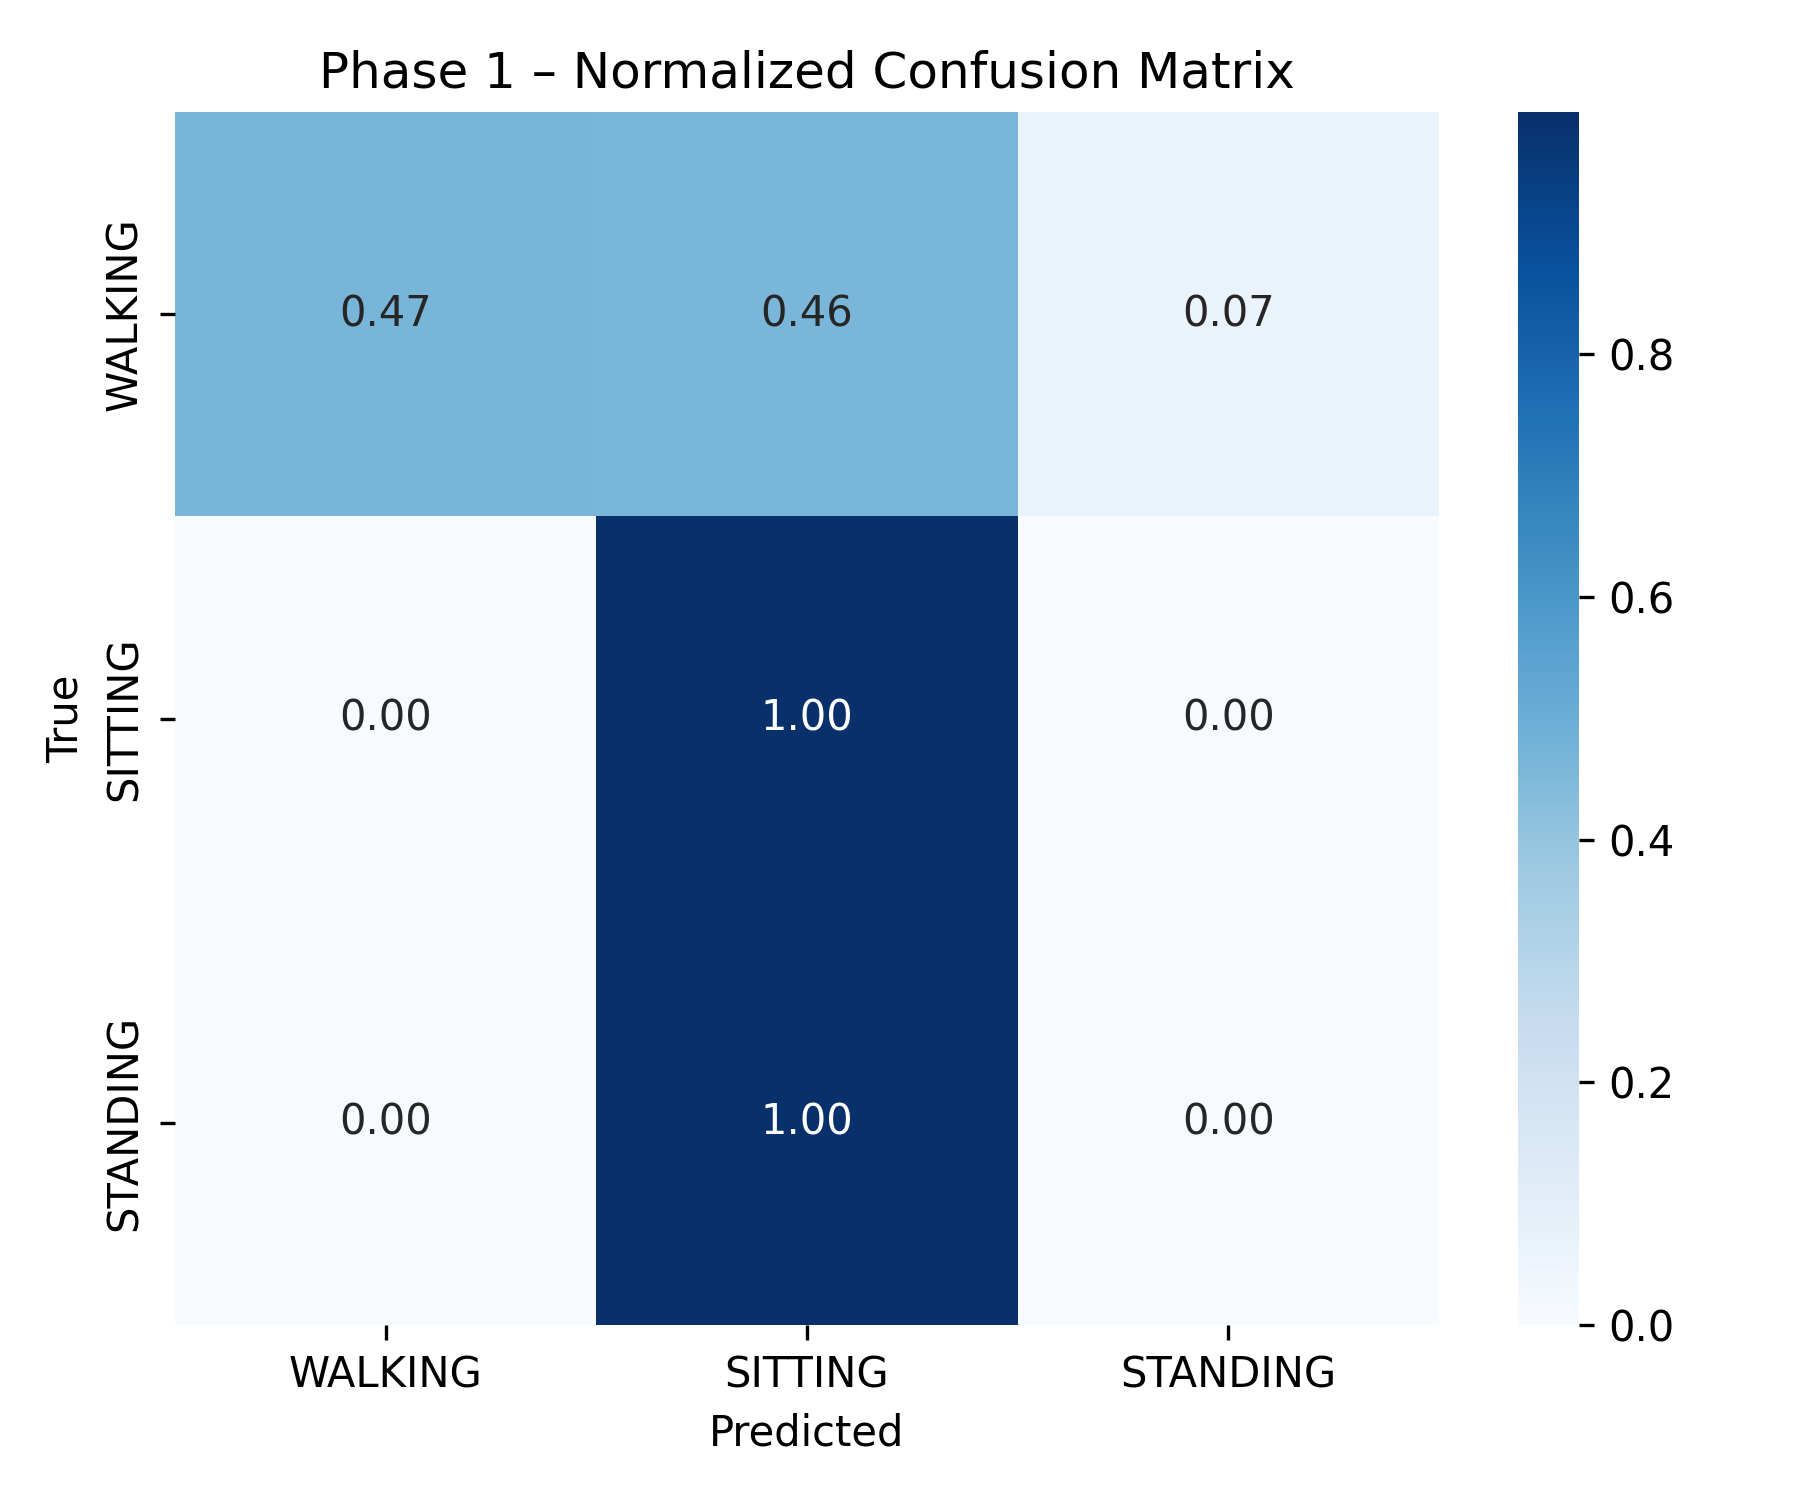
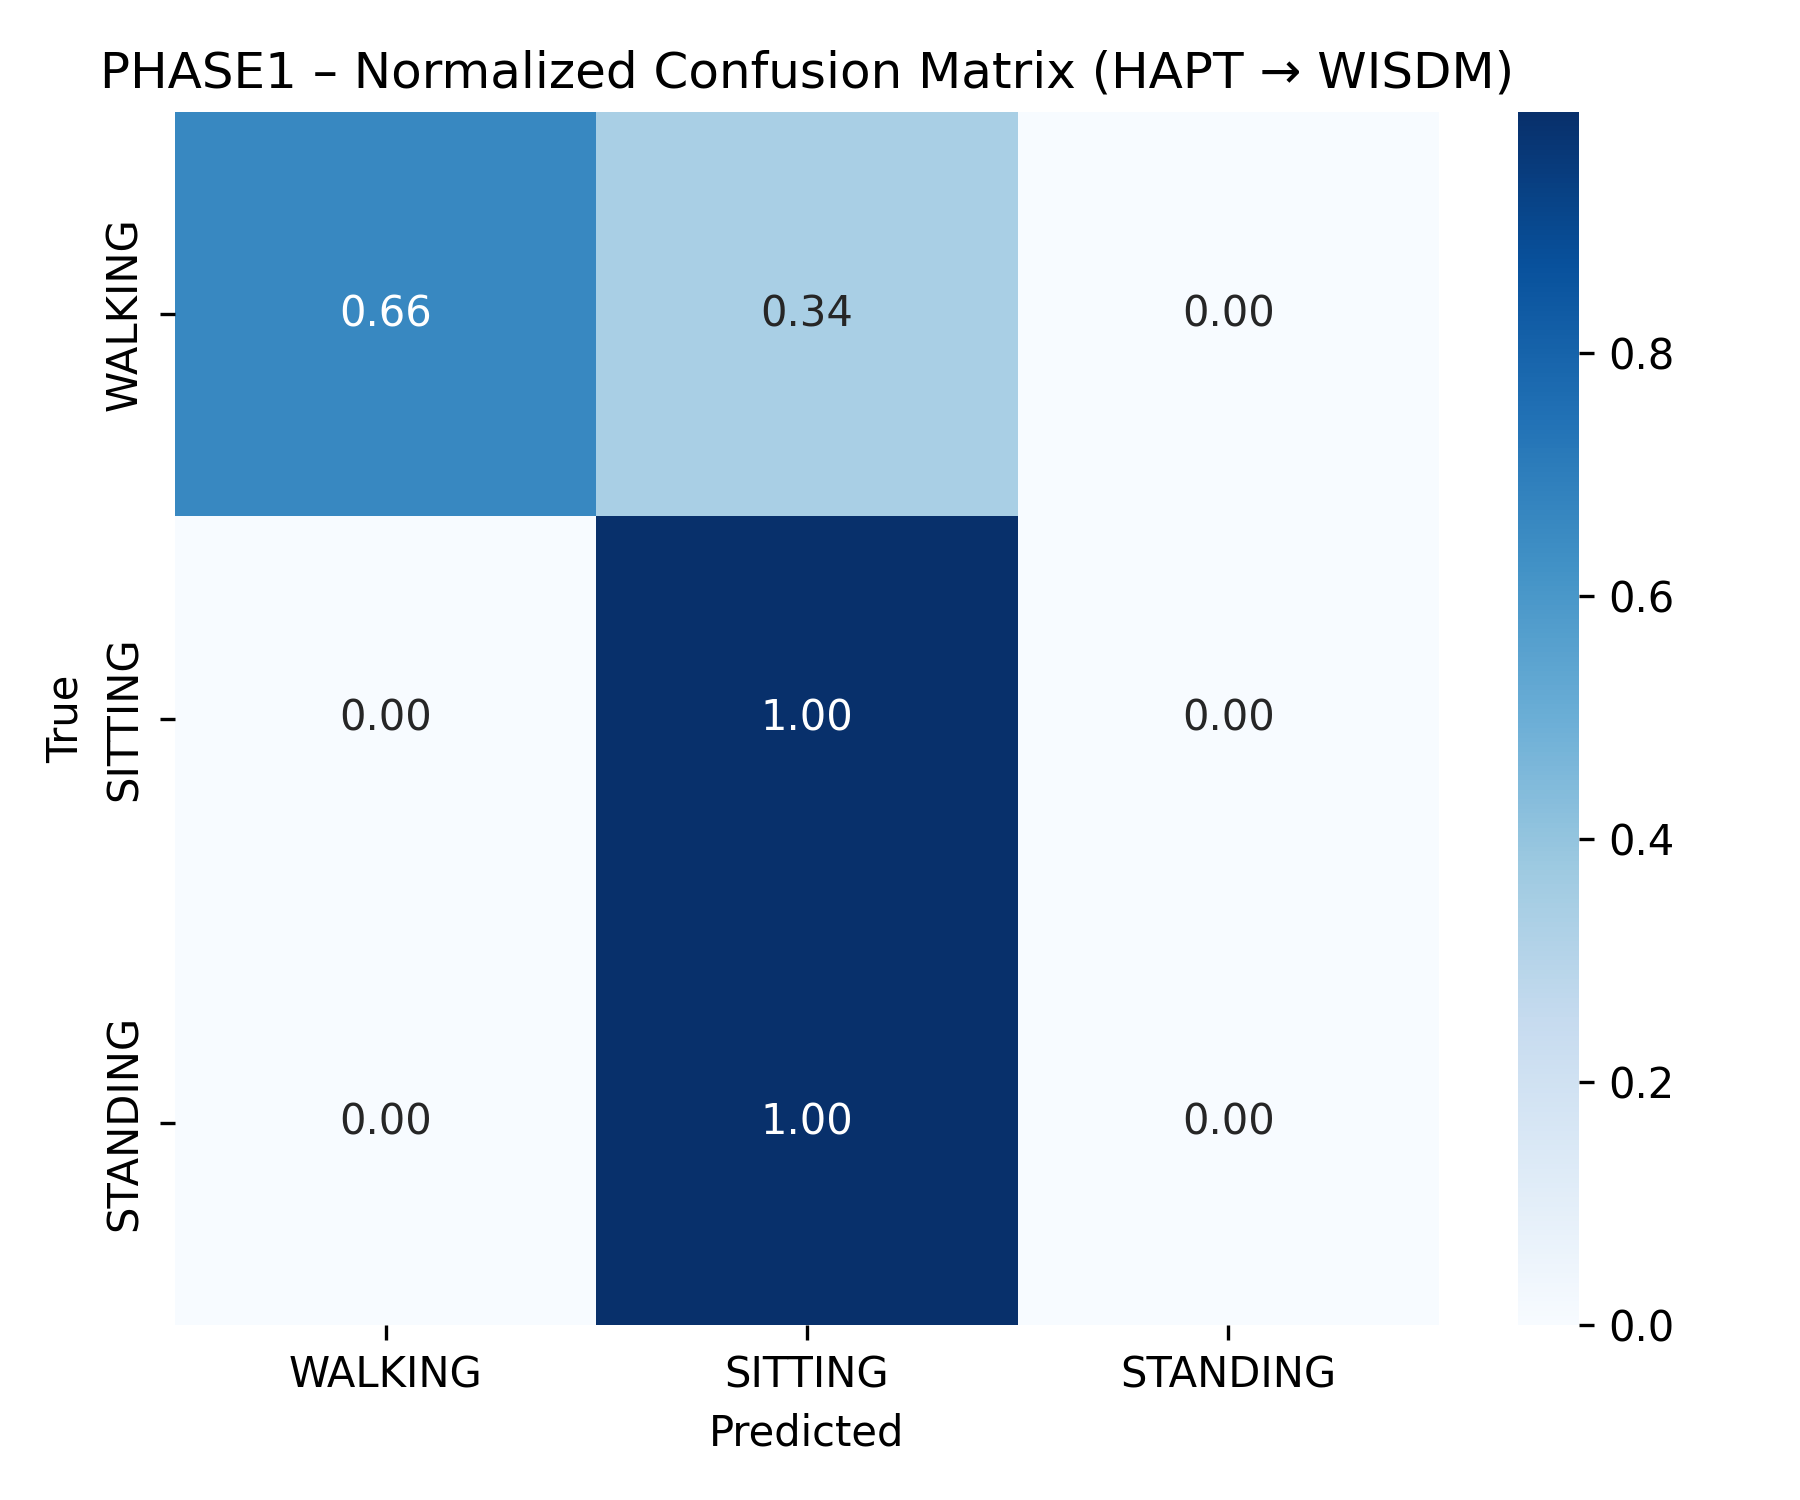
Generated result (images) for pahse 1 and 2

Changed region(s): [[0.0622, 0.0307, 0.84, 0.368], [0.9022, 0.2147, 0.9333, 0.2453], [0.6844, 0.184, 0.7156, 0.2147]]

diff --git a/Synthetic Image Detection/cross_dataset_hapt_to_wisdm.py b/Synthetic Image Detection/cross_dataset_hapt_to_wisdm.py
@@ -7,6 +7,7 @@ from sklearn.metrics import accuracy_score, confusion_matrix, classification_rep
 import seaborn as sns
 import matplotlib.pyplot as plt
 from sklearn.metrics import recall_score
+import os
 
 
 
@@ -17,13 +18,23 @@ from sklearn.svm import SVC
 from sklearn.linear_model import LogisticRegression, Perceptron
 from xgboost import XGBClassifier
 
+# =========================
+# RUN CONFIG
+# =========================
+PHASE_TAG = "phase1"  # change to "phase2" when running baseline 80-feature version
+
+RESULTS_DIR = os.path.join("results", PHASE_TAG)
+os.makedirs(RESULTS_DIR, exist_ok=True)
+
+LABELS = ["WALKING", "SITTING", "STANDING"]
+
 # Load HAPT (source)
-X_train = np.loadtxt(r"C:\Users\tomin\source\repos\Synthetic Image Detection\Synthetic Image Detection\hapt_3class_output_phase2\X_hapt.txt")
-y_train = np.loadtxt(r"C:\Users\tomin\source\repos\Synthetic Image Detection\Synthetic Image Detection\hapt_3class_output_phase2\y_hapt.txt").astype(int)
+X_train = np.loadtxt(r"C:\Users\tomin\source\repos\Synthetic Image Detection\Synthetic Image Detection\hapt_3class_output\X_hapt.txt")
+y_train = np.loadtxt(r"C:\Users\tomin\source\repos\Synthetic Image Detection\Synthetic Image Detection\hapt_3class_output\y_hapt.txt").astype(int)
 
 # Load WISDM (target)
-X_test = np.loadtxt(r"C:\Users\tomin\source\repos\Synthetic Image Detection\Filtered_datasets_and_KS_results\3class_wisdm_phase2\X_filtered.txt")
-y_test = np.loadtxt(r"C:\Users\tomin\source\repos\Synthetic Image Detection\Filtered_datasets_and_KS_results\3class_wisdm_phase2\y_filtered.txt").astype(int)
+X_test = np.loadtxt(r"C:\Users\tomin\source\repos\Synthetic Image Detection\Filtered_datasets_and_KS_results\3class_wisdm\X_filtered.txt")
+y_test = np.loadtxt(r"C:\Users\tomin\source\repos\Synthetic Image Detection\Filtered_datasets_and_KS_results\3class_wisdm\y_filtered.txt").astype(int)
 
 # --- FIX WISDM LABEL SEMANTICS (CRITICAL) ---
 # WISDM mapping: 1=SITTING, 2=STANDING, 3=WALKING
@@ -139,40 +150,54 @@ print(classification_report(
     target_names=["WALKING", "SITTING", "STANDING"]
 ))
 
+# Classification report (text)
+report_txt = classification_report(y_test, y_pred, target_names=LABELS)
+print(report_txt)
+
+with open(os.path.join(RESULTS_DIR, "classification_report.txt"), "w") as f:
+    f.write(report_txt)
+
+# Save confusion matrix as CSV too
+np.savetxt(os.path.join(RESULTS_DIR, "confusion_matrix_raw.csv"), cm, delimiter=",", fmt="%d")
+
 # Metrics and data records for documentation purposes in Phase 1 (61 features) and Phase 2 (70-80-90 features)
 
 # Accuracy recording
-import os
-
-RESULTS_DIR = "results/phase1"
-os.makedirs(RESULTS_DIR, exist_ok=True)
 
 with open(os.path.join(RESULTS_DIR, "metrics.txt"), "w") as f:
+    f.write(f"Phase: {PHASE_TAG}\n")
     f.write(f"HAPT train accuracy: {train_acc:.4f}\n")
     f.write(f"WISDM test accuracy: {test_acc:.4f}\n")
+    f.write(f"Train shape: {X_train.shape}\n")
+    f.write(f"Test shape : {X_test.shape}\n")
+    f.write(f"WISDM label counts after remap: { {label: int(np.sum(y_test == label)) for label in np.unique(y_test)} }\n")
+
 
 
 # Raw confusion matrix plot
 labels = ["WALKING", "SITTING", "STANDING"]
 
+# Raw confusion matrix plot
 plt.figure(figsize=(6, 5))
 sns.heatmap(
     cm,
     annot=True,
     fmt="d",
     cmap="Blues",
-    xticklabels=labels,
-    yticklabels=labels
+    xticklabels=LABELS,
+    yticklabels=LABELS
 )
 plt.xlabel("Predicted")
 plt.ylabel("True")
-plt.title("Phase 1 – Confusion Matrix (HAPT → WISDM)")
+plt.title(f"{PHASE_TAG.upper()} – Confusion Matrix (HAPT → WISDM)")
 plt.tight_layout()
 plt.savefig(os.path.join(RESULTS_DIR, "confusion_matrix_raw.png"), dpi=300)
 plt.close()
 
-# Normalized confusion matrix plot
-cm_norm = cm.astype(float) / cm.sum(axis=1, keepdims=True)
+# Normalized confusion matrix plot (row-normalized)
+row_sums = cm.sum(axis=1, keepdims=True).astype(float)
+row_sums[row_sums == 0] = 1.0  # avoid division by zero
+cm_norm = cm.astype(float) / row_sums
 
 plt.figure(figsize=(6, 5))
 sns.heatmap(
@@ -180,24 +205,25 @@ sns.heatmap(
     annot=True,
     fmt=".2f",
     cmap="Blues",
-    xticklabels=labels,
-    yticklabels=labels
+    xticklabels=LABELS,
+    yticklabels=LABELS
 )
 plt.xlabel("Predicted")
 plt.ylabel("True")
-plt.title("Phase 1 – Normalized Confusion Matrix")
+plt.title(f"{PHASE_TAG.upper()} – Normalized Confusion Matrix (HAPT → WISDM)")
 plt.tight_layout()
 plt.savefig(os.path.join(RESULTS_DIR, "confusion_matrix_normalized.png"), dpi=300)
 plt.close()
+
 
 # Recall = how well each activity transfers.
 recall = recall_score(y_test, y_pred, average=None)
 
 plt.figure(figsize=(6, 4))
-plt.bar(labels, recall, color=["tab:blue", "tab:orange", "tab:green"])
+plt.bar(LABELS, recall)
 plt.ylim(0, 1.05)
 plt.ylabel("Recall")
-plt.title("Phase 1 – Per-Class Recall (HAPT → WISDM)")
+plt.title(f"{PHASE_TAG.upper()} – Per-Class Recall (HAPT → WISDM)")
 
 for i, v in enumerate(recall):
     plt.text(i, v + 0.02, f"{v:.2f}", ha="center", fontsize=10)
